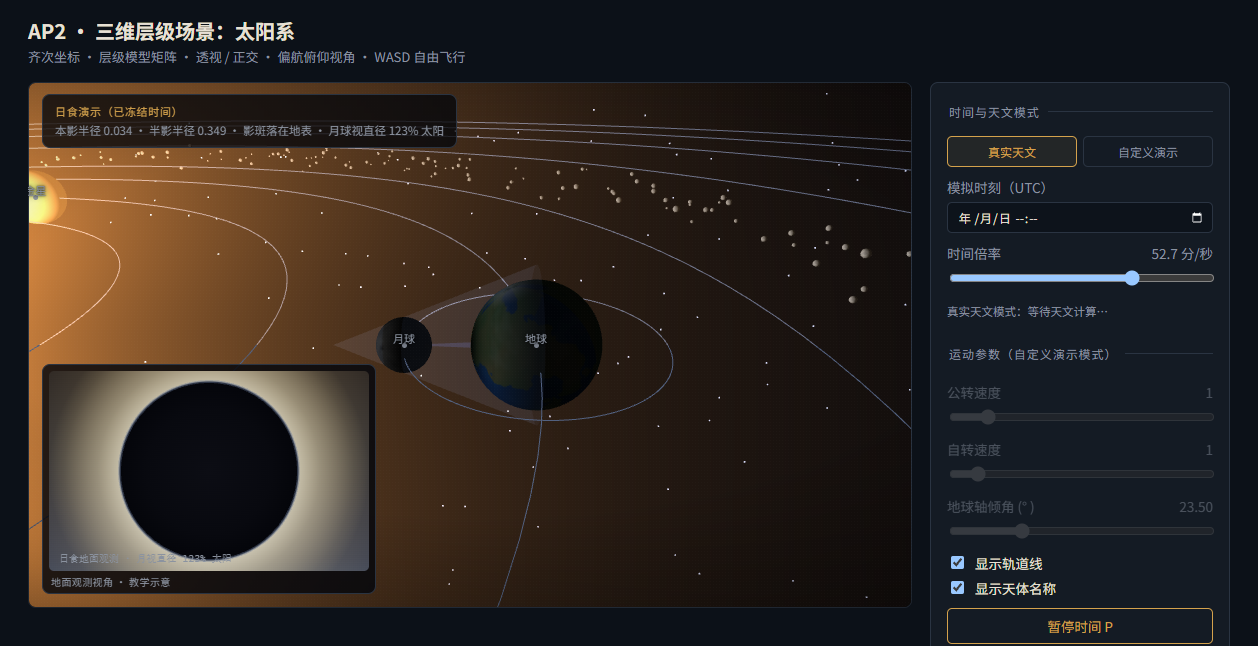
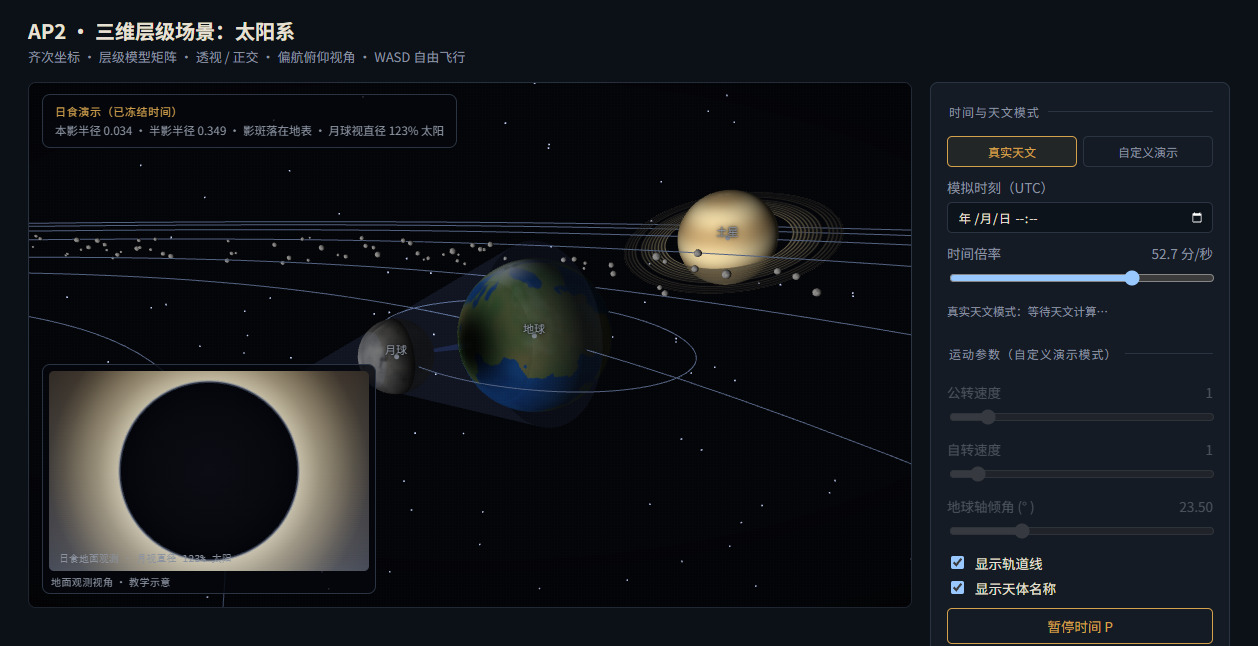
日食取景改偏太阳侧以露出地表阴影斑；全局阴影改为几何阴影主导

diff --git a/js/scene.js b/js/scene.js
@@ -471,7 +471,7 @@ export function createScene() {
     else sim.time = 0;
   }
 
-  /** 日月食取景：围绕地月区域构图，视角垂直于日–地–月连线 */
+  /** 日月食取景：围绕地月区域构图。日食偏太阳一侧，能同时看到昼面与被遮暗的阴影斑 */
   function eclipseCameras() {
     const e = eclipseState();
     if (!e.earth) return null;
@@ -481,20 +481,26 @@ export function createScene() {
       MV.length(MV.subtract(e.earth, e.moon)) * 0.5 + PLANETS.find((p) => p.id === "earth").radius + MOON.radius,
       1.2,
     );
-    const dist = span * 3.4;
     const up = MV.vec3(0, 1, 0);
     const axis = MV.normalize(MV.subtract(e.earth, e.sun).slice());
     const side = MV.normalize(MV.cross(axis, up).slice());
-    const dir = MV.normalize(MV.add(MV.scale(0.86, side), MV.scale(0.36, up)));
-    const eye = MV.add(mid, MV.scale(dist, dir));
 
-    // 地面点击视点：从地月连线侧向再抬高一点
-    const groundEye = MV.add(mid, MV.scale(dist * 1.15, MV.normalize(MV.add(MV.scale(0.7, side), MV.scale(0.62, up)))));
+    // 日食：从「太阳一侧 + 侧面 + 略高」看向地月区域 —— 地球昼面朝向镜头，
+    // 月影落点不会被球体自身遮住（侧视角会把本影斑压到边缘上）。
+    const solarDir = MV.normalize(MV.add(MV.add(MV.scale(-0.55, axis), MV.scale(0.8, side)), MV.scale(0.22, up)));
+    const solarEye = MV.add(mid, MV.scale(span * 2.7, solarDir));
+
+    // 月食：侧视角，能同时看到地影锥与进入阴影的月球
+    const lunarDir = MV.normalize(MV.add(MV.scale(0.86, side), MV.scale(0.34, up)));
+    const lunarEye = MV.add(mid, MV.scale(span * 3.0, lunarDir));
+
+    // 地面视点：贴近地表，由 main.js 的 groundPose 精确覆盖
+    const groundEye = MV.add(mid, MV.scale(span * 3.0, MV.normalize(MV.add(MV.scale(0.7, side), MV.scale(0.62, up)))));
 
     void geo;
     return {
-      solar: { eye, at: mid },
-      lunar: { eye, at: mid },
+      solar: { eye: solarEye, at: mid },
+      lunar: { eye: lunarEye, at: mid },
       ground: { eye: groundEye, at: mid },
     };
   }

diff --git a/js/main.js b/js/main.js
@@ -276,9 +276,10 @@ function drawNode(node, ecl, fx) {
   gl.uniform1f(loc.shadowMode, 0);
   gl.uniform1f(loc.time, fx.sunTime);
 
+  // 全局阴影只做轻微环境压暗；真正的本影/半影由几何阴影贴图（乘色）负责
   let shadow = 0;
-  if (node.id === "earth") shadow = ecl.solar * 0.7;
-  if (node.id === "moon") shadow = ecl.lunar * 0.85;
+  if (node.id === "earth") shadow = ecl.solar * 0.25;
+  if (node.id === "moon") shadow = ecl.lunar * 0.35;
   gl.uniform1f(loc.shadow, shadow);
 
   if (node.kind === "orbit") {
